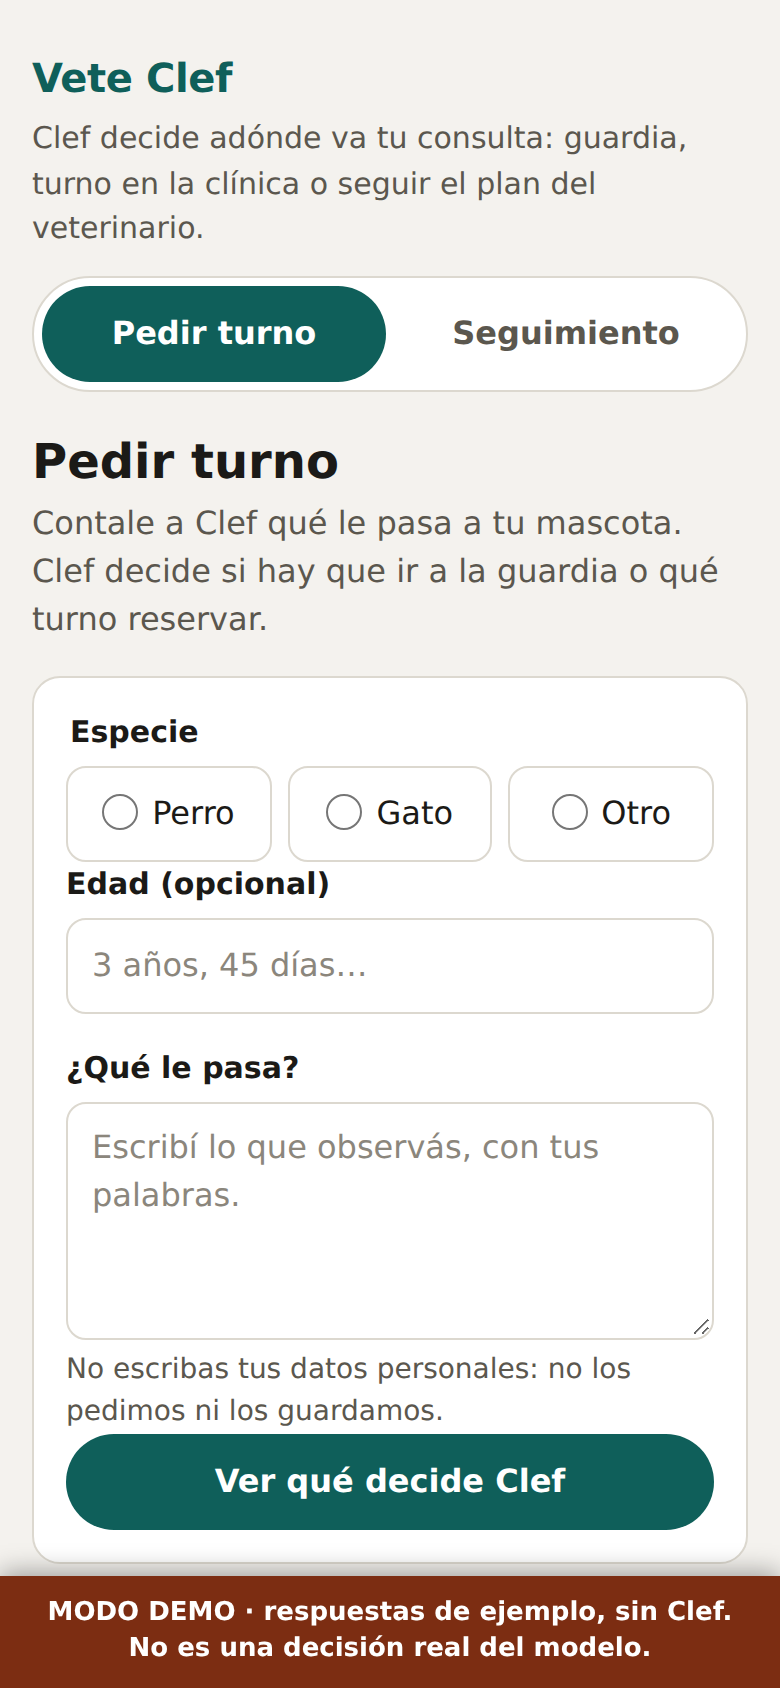
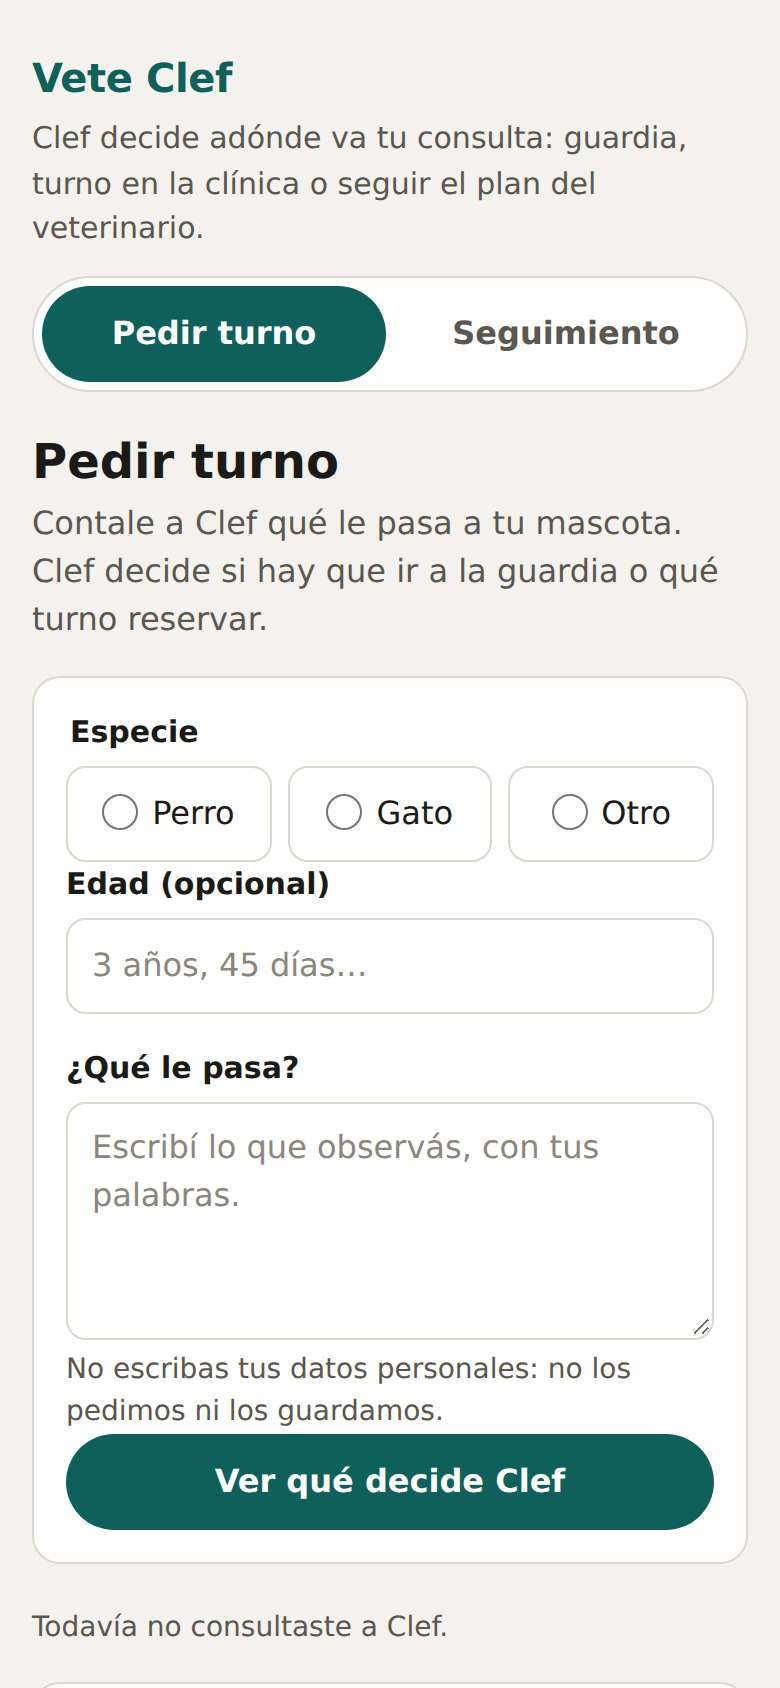
feat(rules): calibrate thresholds against real Clef, real captures
scripts/calibrate.mjs against the live model: 8/10 expected routes out of the
box. Emergency threshold 0.20 -> 0.30 sits in the measured gap (true
emergencies 0.88-0.98, semi-urgent 0.23, routine <= 0.11), keeps both
emergencies and routes the mild case to consultation as the brief expects.
Case 10: real Clef resolves the ambiguity confidently, recalibrated to booking.
Score probability keys verified as indices (L6). Screenshots regenerated against
the live model, no demo mode involved.

Changed region(s): [[0.0, 0.9242, 1.0, 1.0]]

diff --git a/test/triage.test.js b/test/triage.test.js
@@ -41,18 +41,18 @@ test('S4: an emergency goes straight to the guardia screen and books nothing', (
   assert.equal(result.options, null);
 });
 
-test('S4 boundary: exactly 0.20 is an emergency', () => {
+test('S4 boundary: exactly 0.30 is an emergency', () => {
   const result = decideTriage({
-    answers: answersOf({ emergency: 0.2, choice: 'consulta', confidence: 0.9, score: 2 }),
+    answers: answersOf({ emergency: 0.3, choice: 'consulta', confidence: 0.9, score: 2 }),
   });
 
   assert.equal(result.route, 'guardia');
   assert.equal(result.service, null);
 });
 
-test('S4 boundary: 0.19 is not an emergency and still books', () => {
+test('S4 boundary: 0.29 is not an emergency and still books', () => {
   const result = decideTriage({
-    answers: answersOf({ emergency: 0.19, choice: 'consulta', confidence: 0.9, score: 2 }),
+    answers: answersOf({ emergency: 0.29, choice: 'consulta', confidence: 0.9, score: 2 }),
   });
 
   assert.equal(result.route, 'booking');

diff --git a/src/config.js b/src/config.js
@@ -5,8 +5,14 @@
 
 export const THRESHOLDS = {
   triage: {
-    /** emergency.noul at or above this books nothing and shows the guardia screen. */
-    emergency: 0.2,
+    /**
+     * emergency.noul at or above this books nothing and shows the guardia screen.
+     * Calibrated 2026-11-14 against real Clef (scripts/calibrate.mjs): true
+     * emergencies scored 0.88-0.98, the semi-urgent vomiting case 0.23, routine
+     * cases <= 0.11. 0.30 sits in that gap, keeps both emergencies, and routes
+     * the mild case to a consultation as the brief expects.
+     */
+    emergency: 0.3,
     /** timing.score at or above this offers today's slot first. */
     preferTodayScore: 2.5,
     /** service.confidence below this asks the owner to pick between two services. */

diff --git a/odd/tasks/vete-clef.md b/odd/tasks/vete-clef.md
@@ -58,7 +58,7 @@ L2. `TAREA.md` (commit `790205f`) es el brief vinculante; sus specs se citan arr
 L3. Bloqueo detectado y reportado: `POST /v1/systemone` con `model: "clef"` devuelve HTTP 404 `model_not_found`; `GET /v1/models` responde 200 con 5 modelos y **sin `clef`**; `POST /v1/chat/completions` con `deepseek-v4-flash` responde 200. La key es válida: falta el acceso al modelo. **Confirmado por los docs oficiales** (`docs/api.md`, tabla de errores): `404` = «No tienes acceso», y la autenticación es solo `Authorization: Bearer <key>` — «usa la misma key de NaN que ya tienes para los modelos de chat, no necesitas ninguna key nueva». El correo de la cuenta no interviene en la autorización, así que cambiar el email de la suscripción no habilita el modelo: el permiso vive en la cuenta y su plan, no en la dirección. El camino documentado para un 404 es el canal del hackathon en Discord.
 L4. Decisión del usuario ante L3: «Sigo con todo lo que no necesita Clef» (opción 1). Los fixtures se marcan explícitamente como sintéticos (forma tomada de `docs/api.md`), nunca como respuestas grabadas.
 L5. Decisión de orden de reglas del triage (interpretación propia, el brief no lo fija): emergencia (S4) → override de peluquería (S7) → ambigüedad de servicio (S6) → elección de turno (S5). Seguridad antes que confianza: un pedido de peluquería con señales de salud nunca termina en peluquería, ni siquiera si Clef está poco seguro del servicio.
-L6. Riesgo abierto: `docs/api.md` pide verificar con una llamada real las claves de `probabilities` en `score`. Sin acceso, el parser acepta índices (`"0"`, `"1"`) y etiquetas. Verificar primero cuando aparezca el acceso.
+L6. Riesgo abierto: `docs/api.md` pide verificar con una llamada real las claves de `probabilities` en `score`. Sin acceso, el parser acepta índices (`"0"`, `"1"`) y etiquetas. Verificar primero cuando aparezca el acceso. **RESUELTO el 14/11 con Clef real:** las claves de `score` son índices (`"0"…"3"`) y el `legend` viaja aparte; las de `choice` son los ids de `criteria`. El parser ya tenía el camino principal correcto; no se cambió código.
 L7. Node.js no existía en WSL. Instalado con `nvm` (sin sudo): v26.13.1 en `~/.nvm/versions/node/v26.13.1/bin`. Los shells no interactivos necesitan anteponer ese `bin` al `PATH`.
 L8. Bug encontrado al revisar el payload y no por los tests: el Worker mandaba `questions` como lista y `docs/api.md` exige un mapa `id → pregunta`. Corregido con `questionsPayload` y fijado con `test/payload.test.js` (5 tests). Con Clef habilitado, la primera llamada real habría dado 400. Incluido en `a7fb452`.
 L9. Verificación local con `wrangler dev` (no deploy): assets 200, los tres 400 de validación, `/api/nope` 404 JSON, y `/api/triage` y `/api/followup` devolviendo 502 `clef_no_access` desde la API real de NaN. Esa llamada prueba el camino completo salvo el modelo: validación, cliente, `AbortSignal` dentro de workerd, y mapeo de error.
@@ -72,3 +72,5 @@ L14. Modo demo local (**workaround, no requisito del brief**): `wrangler.demo.to
 L15. Repo público creado y pusheado: `https://github.com/lfdmdeieme07-droid/vete-clef`, rama `main`, visibilidad pública. Autorización explícita del usuario: «si todo junto si hace falta push también». Autenticación con el `gh.exe` de Windows que el usuario ya tenía (`gh auth token` + `http.extraheader` con `x-access-token`): el token **no** queda en `.git/config`, en la URL del remoto ni en el historial de comandos. Verificado después del push: `.dev.vars` no está en el repo (`.gitignore` lo cubre junto con `.wrangler/`), y las 5 apariciones de `sk-` en el árbol son placeholders de test y de uso (`sk-...`, `sk-test-DO-NOT-LEAK-1234`), no la key real. Las 5 capturas viven en `docs/capturas/` y el README las referencia con rutas relativas.
 L16. Defecto de copy encontrado al revisar la captura 04 y corregido en `5a345b0`: `TRIGGER_LABELS` escribía frases completas que se concatenaban detrás de un «Clef decidió por:», repitiendo lo que ya decía el párrafo de arriba. Ahora son razones cortas, y la nota de la ruta `guardia` ya no afirma una señal de alerta que pudo no haber disparado (la ruta también se alcanza solo por `p(guardia) >= 0.20`). Sin test: `public/` no tiene cobertura automática; se verificó regenerando la captura.
 L17. Deploy a la cuenta real del usuario (`lfdm.deieme07@gmail.com`, account `dba6c37754fad618ffadb4ac3a727d79`, subdominio `lfdm-deieme07`): **https://vete-clef.lfdm-deieme07.workers.dev**. Verificado desde internet: assets 200, `/api/nope` 404, validación 400, y los dos endpoints `500 not_configured` porque falta el secret `NAN_KEY` — lo carga el usuario, porque el brief prohíbe que el agente setee secrets. Cero rastro del modo demo en producción. Antes del deploy real se probó el camino completo con `wrangler deploy --temporary` en una cuenta de preview, que se descartó sin reclamar; esa prueba valió: el deploy a la cuenta real no dio ninguna sorpresa y no pidió registrar subdominio, porque el usuario ya lo tenía (`lfdm-deieme07`, de `turnero-demo` y `radar-clientes`).
+L18. Calibración contra Clef real (14/11, `scripts/calibrate.mjs`, 10 casos en serie): 8/10 rutas correctas de fábrica. Divergencias y decisions con evidencia: (a) t2 baño+vómito: Clef real da emergencia 0.23, que cruzaba el umbral 0.20 y disparaba guardia antes del override S7; las emergencias verdaderas se aglomeran en 0.88-0.98 y el resto queda <= 0.11, así que el umbral se calibró a **0.30** (queda en el hueco 0.23-0.88, conserva ambas emergencias y manda el caso leve a consulta, como pide el brief). S4 y `test/triage.test.js` (fronteras 0.30/0.29) actualizados. (b) t10 «Está raro, como triste»: el modelo real NO duda (consulta 97 %, confianza 0.97); no hay umbral honesto que produzca choose_service, así que el caso se recalibró a `booking` con nota. La regla S6 sigue pinneada por tests con fixtures. Resultado final: 9/10 + t10 recalibrado = verificación completa del camino real. Testeadas también las claves de `probabilities` (L6).
+L19. Acceso a Clef resuelto vía Discord: la inscripción del hackathon quedó en la cuenta `fabi.bv07@...` (sin key), mientras la key en uso (alias `lfdmdeieme07`) no tiene clef. Saúl (organizador) prestó su key de NaN (`NAN_KEY` en el secret del Worker y `.dev.vars`, nunca en el repo) hasta que Cristian, quien da altas, esté disponible. Con esa key: primera llamada real HTTP 200 (chocolate → emergency 0.95), calibrate 10/10, capturas regeneradas sin modo demo. Pedidos pendientes al organizador: enviar la entrega por privado y pedir la habilitación de clef en la cuenta propia para dejar de depender de la key ajena.
